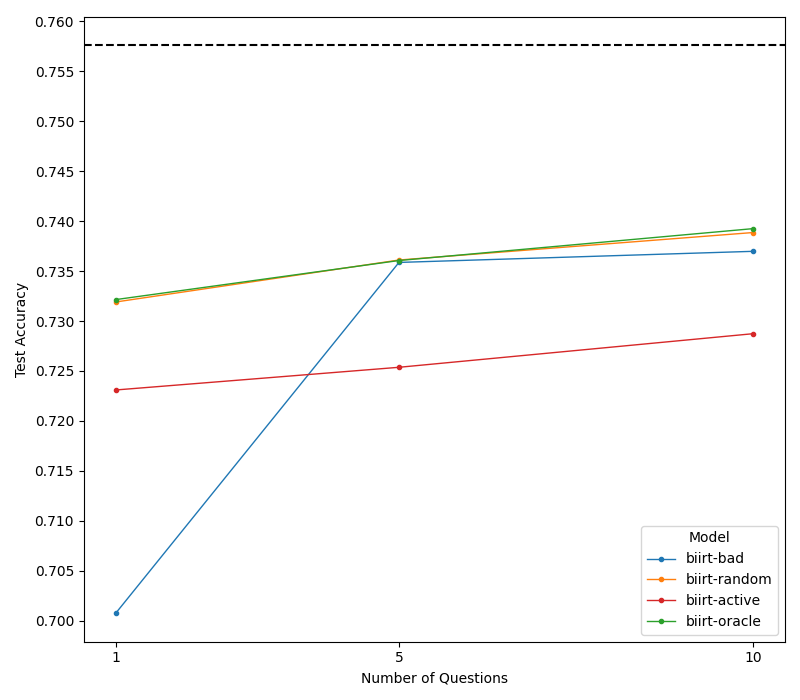
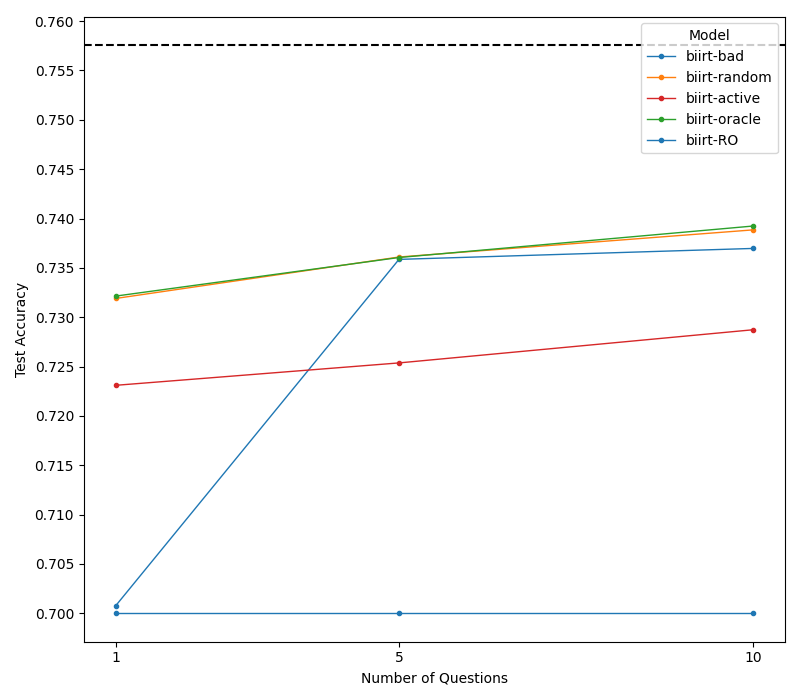
chart update and re-tests

diff --git a/make_chart.py b/make_chart.py
@@ -2,36 +2,58 @@ import pandas as pd
 import matplotlib.pyplot as plt
 import numpy as np
 
+def plot_metric(df, metric_col, ylabel, y_range, output_file, theoretical_best=None):
+    plt.figure(figsize=(8, 7))
+    custom_colors = ['#1f77b4', '#ff7f0e', '#d62728', '#2ca02c', 'purple']
 
+    plt.yticks(np.arange(y_range[0], y_range[1] + 0.001, y_range[2]))
+
+    for i, model in enumerate(df['model'].unique()):
+        subset = df[df['model'] == model]
+        plt.plot(
+            subset['n_query'],
+            subset[metric_col],
+            marker='.',
+            label=model,
+            linewidth=1,
+            color=custom_colors[i % len(custom_colors)]
+        )
+
+    if theoretical_best is not None:
+        plt.axhline(y=theoretical_best, color='black', linestyle='--')
+
+    plt.xlabel('Number of Questions')
+    plt.ylabel(ylabel)
+    plt.title('')
+    plt.legend(title='Model')
+    plt.grid(False)
+    plt.xticks([1, 5, 10])
+    plt.tight_layout()
+    plt.savefig(output_file)
+    plt.close()
+
+def plot_test_accuracy(df):
+    plot_metric(
+        df,
+        metric_col='test_accuracy',
+        ylabel='Test Accuracy',
+        y_range=(0.700, 0.800, 0.005),
+        output_file='model-comparison-accuracy.png',
+        theoretical_best=0.757588
+    )
+
+def plot_test_auc(df):
+    plot_metric(
+        df,
+        metric_col='test_auc',
+        ylabel='Test AUC',
+        y_range=(0.600, 0.800, 0.01),
+        output_file='model-comparison-auc.png',
+    )
+
+# Usage:
 df = pd.read_csv('results-0.75.csv')
 df.columns = df.columns.str.strip()
 
-plt.figure(figsize=(8, 7))
-custom_colors = ['#1f77b4', '#ff7f0e', '#d62728','#2ca02c']
-plt.yticks(np.arange(0.700, 0.800 + 0.001, 0.005))
-
-# Plot each model as a separate line
-for i, model in enumerate(df['model'].unique()):
-    subset = df[df['model'] == model]
-    plt.plot(
-        subset['n_query'],
-        subset['test_accuracy'],
-        marker='.',
-        label=model,
-        linewidth=1,
-        color=custom_colors[i % len(custom_colors)])
-
-theoretical_best = 0.757588
-plt.axhline(y=theoretical_best, color='black', linestyle='--')
-
-plt.xlabel('Number of Questions')
-plt.ylabel('Test Accuracy')
-plt.title('')
-plt.legend(title='Model')
-plt.grid(False)
-plt.xticks([1, 5, 10])  # Only show specific x-axis values
-plt.tight_layout()
-
-
-plt.savefig('model-comparison.png')
-
+plot_test_accuracy(df)
+plot_test_auc(df)
